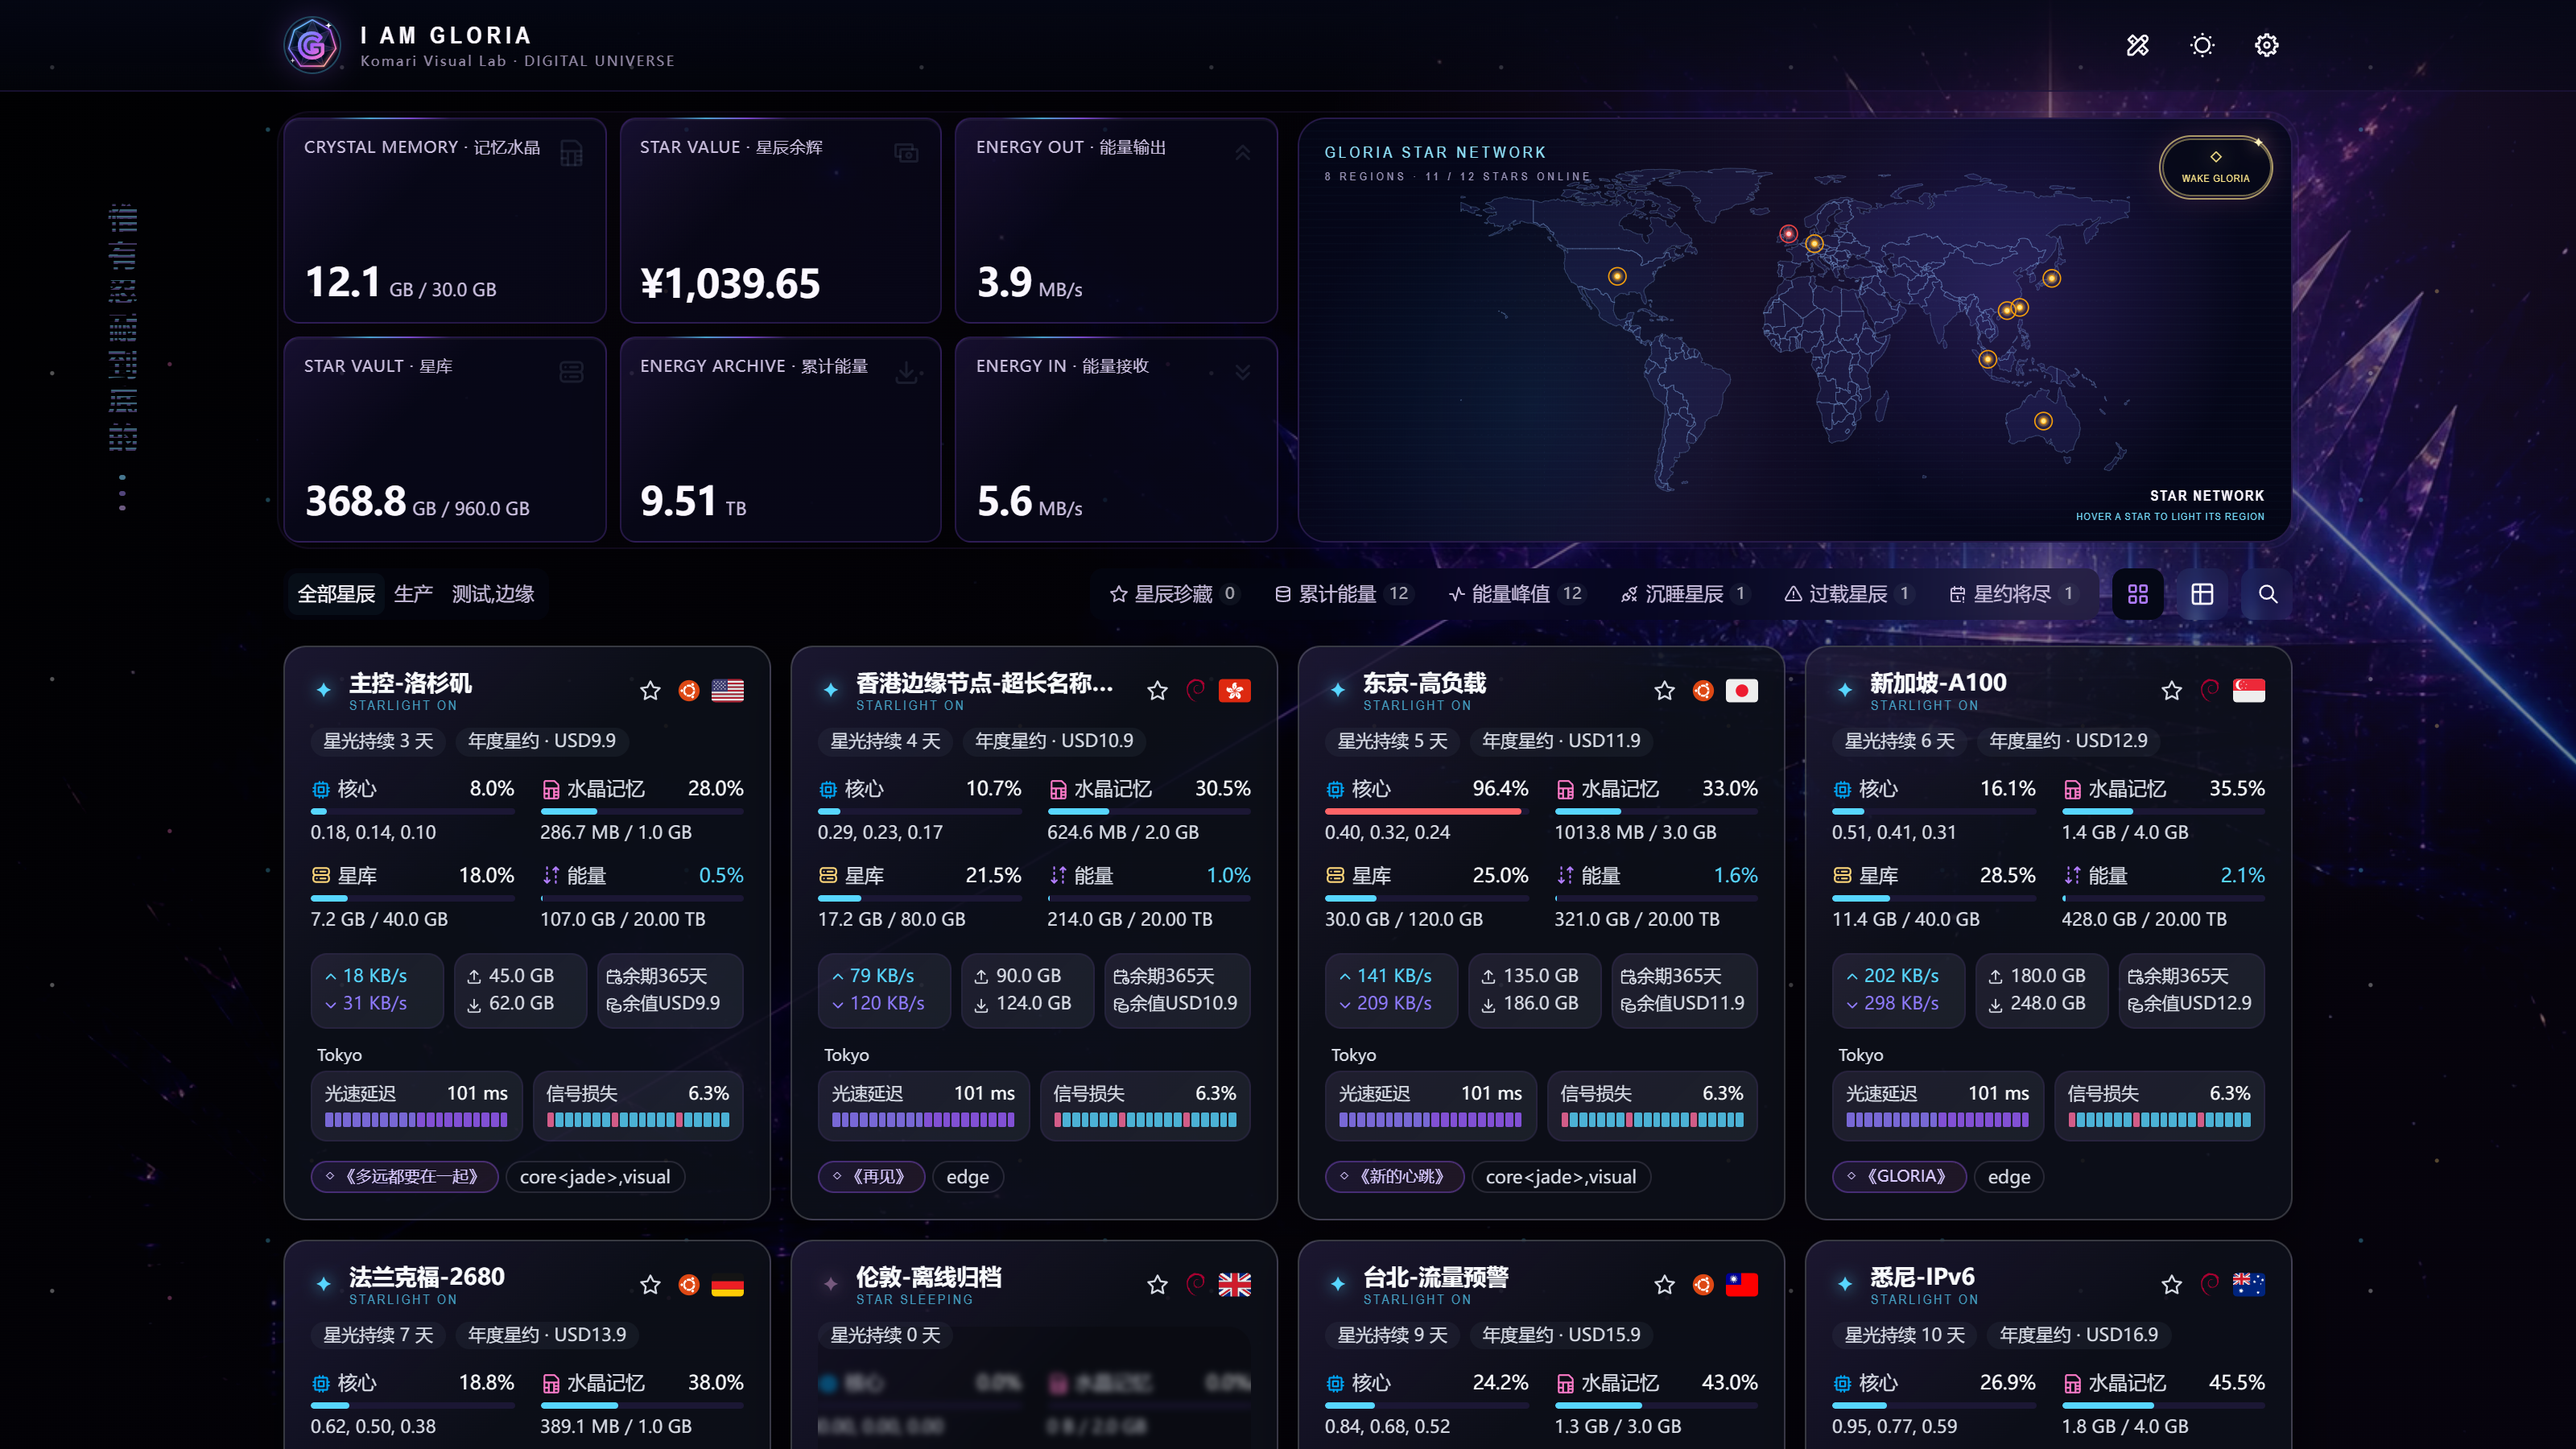
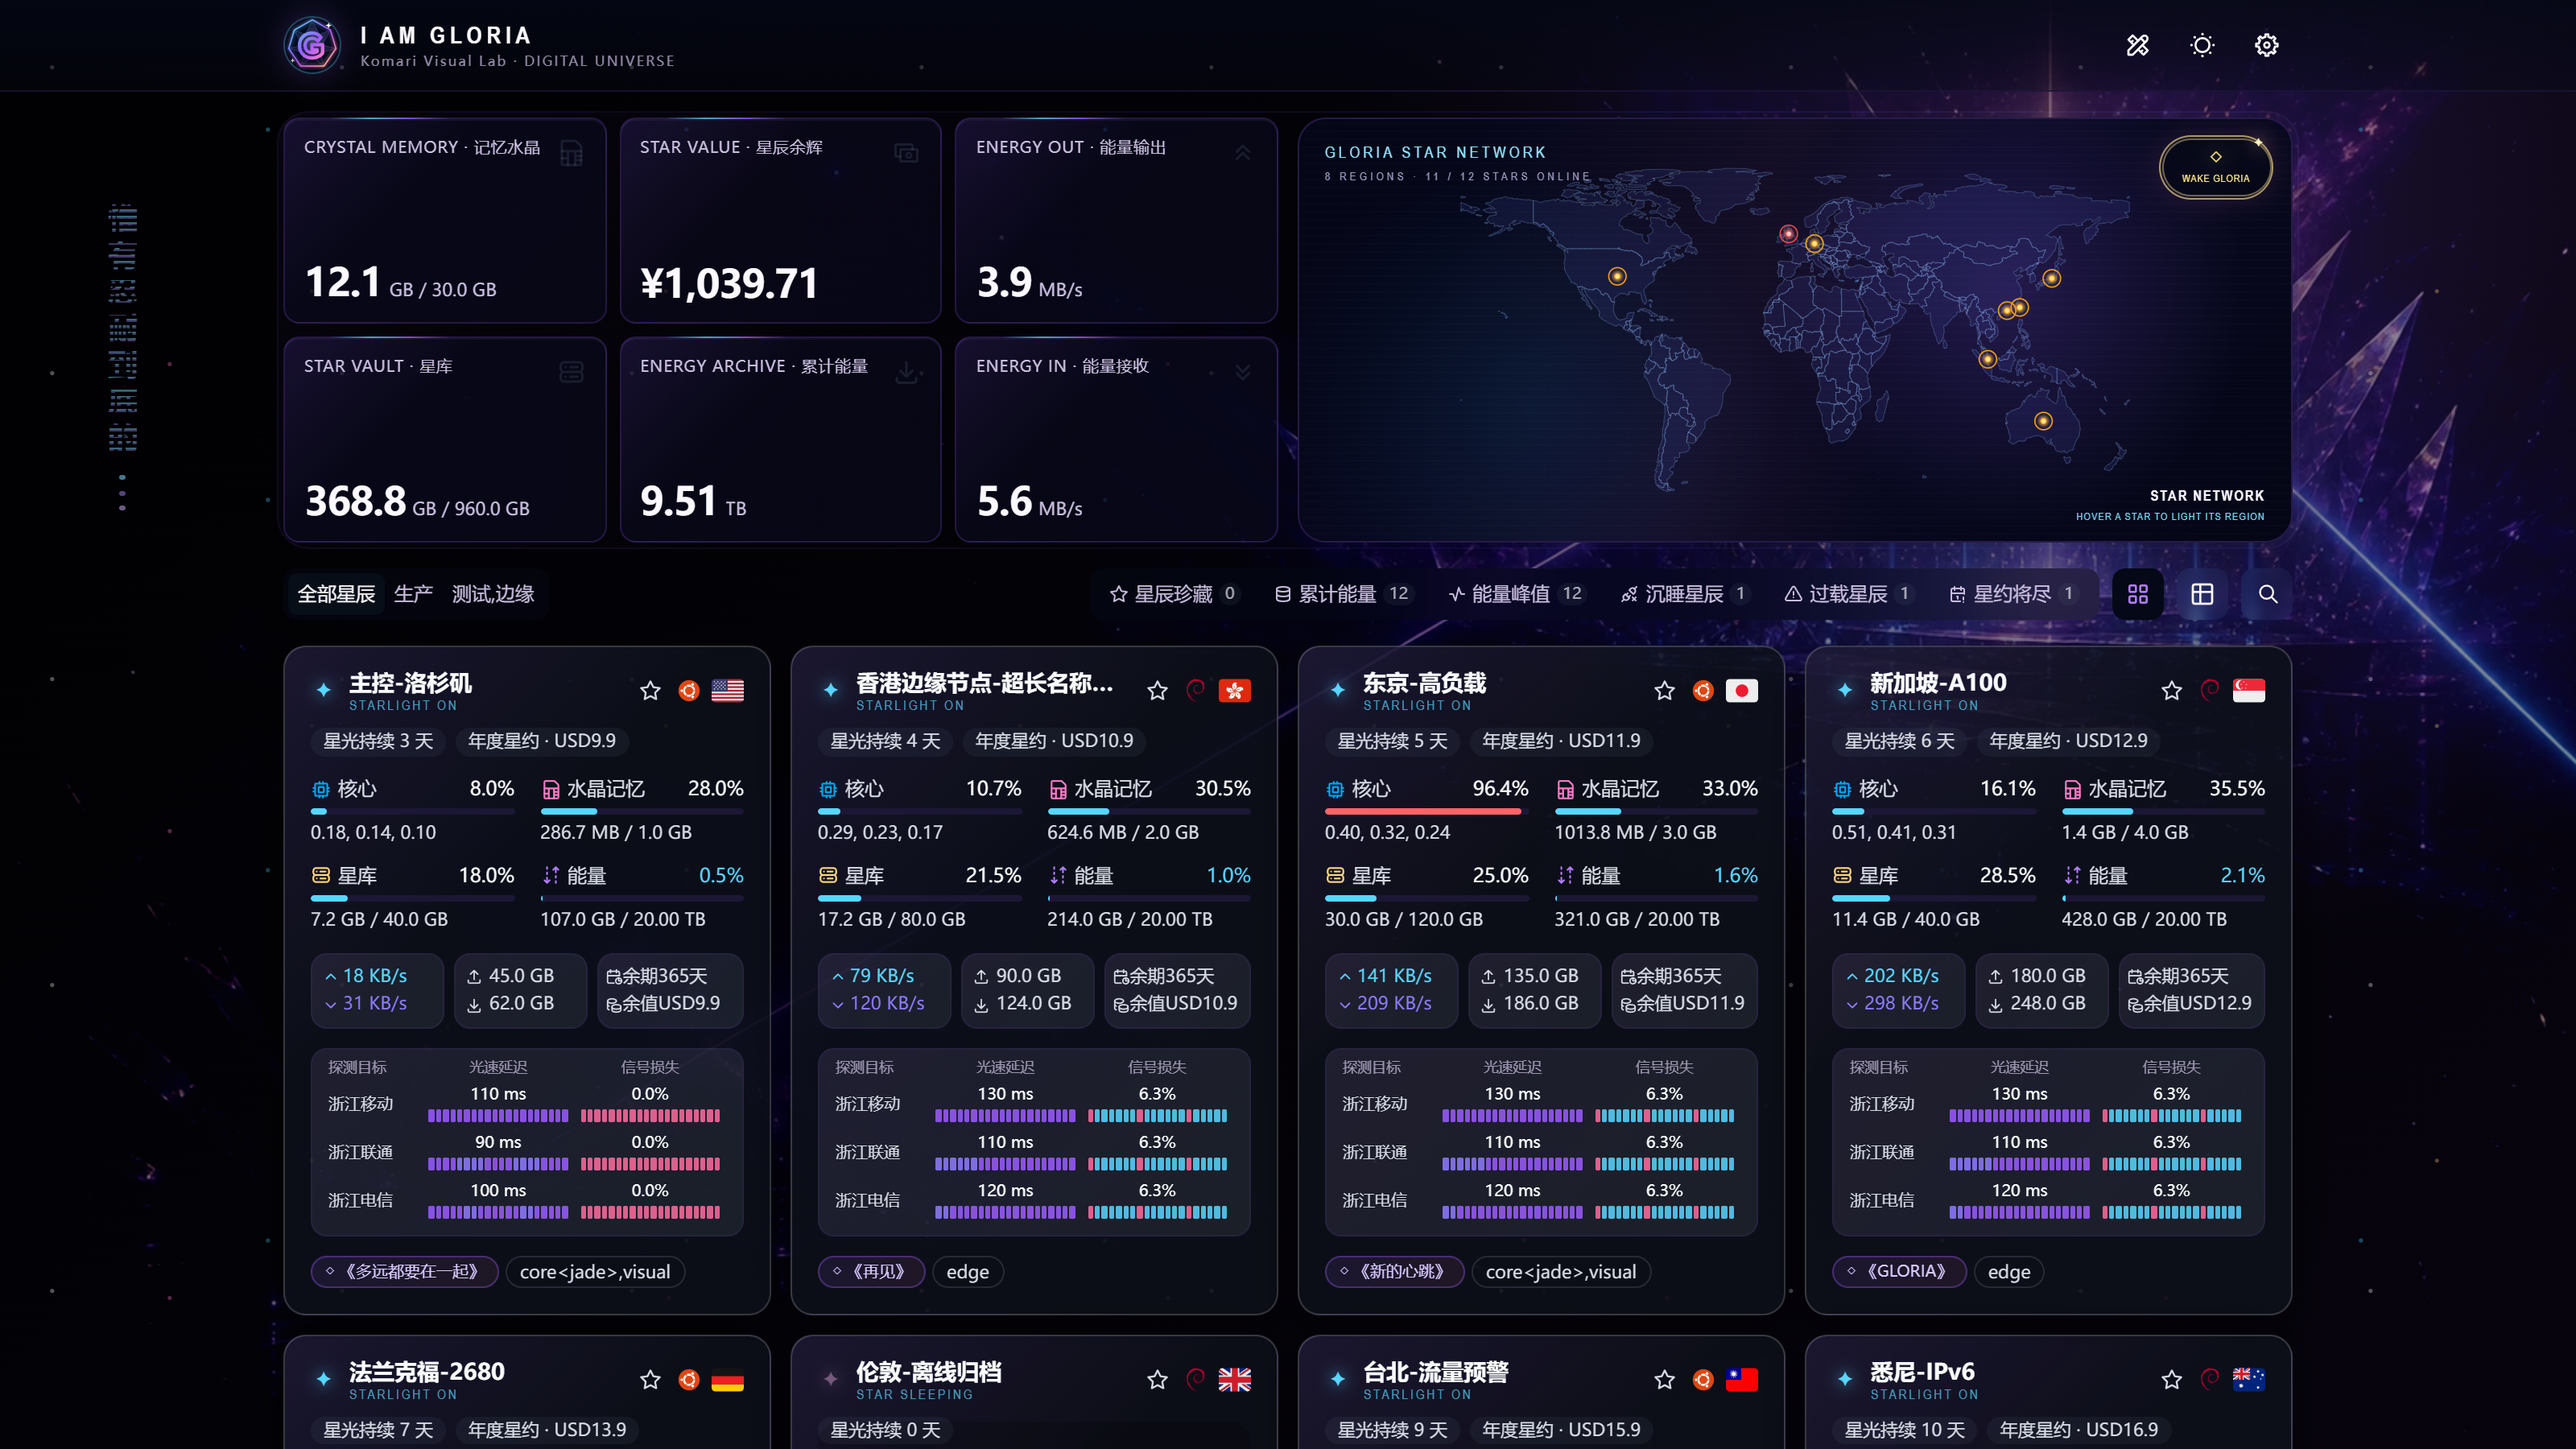
docs: showcase v1.5.7 multi-target latency

Changed region(s): [[0.0938, 0.7156, 0.875, 0.9956], [0.2812, 0.1867, 0.3125, 0.2178]]

diff --git a/tests/visual/visual.spec.ts b/tests/visual/visual.spec.ts
@@ -245,7 +245,7 @@ test.describe('README preview', () => {
   test.use({ viewport: { width: 1600, height: 900 }, deviceScaleFactor: 2 })
 
   test('deep-space mode stays unobstructed at high resolution', async ({ page }) => {
-    await installKomariFixture(page, { dark: true, visitorInfoEnabled: false })
+    await installKomariFixture(page, { dark: true, visitorInfoEnabled: false, pingTaskOrdering: true })
     await openStablePage(page)
 
     await expect(page.getByText('棋士', { exact: true })).toHaveCount(0)
